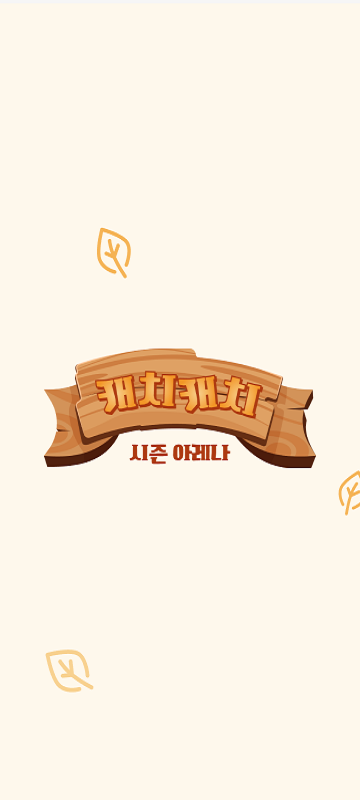
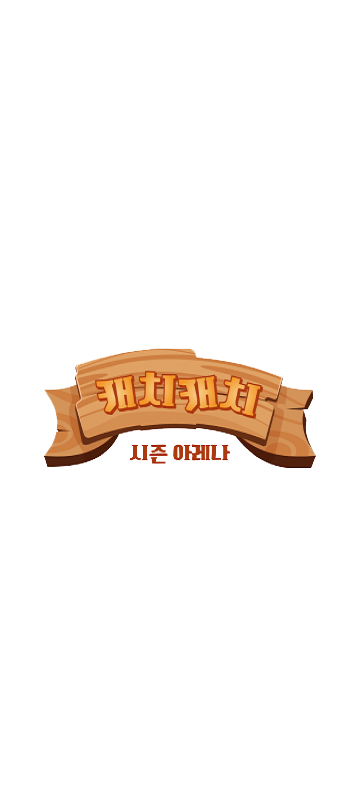
Chore: 로딩 이미지 변경

diff --git a/game/public/index.css b/game/public/index.css
@@ -21,15 +21,21 @@ body {
 
 /* 모달 창 */
 #modal {
+  position: absolute;
+  top: 0;
+  left: 0;
   width: 100%;
   height: 100%;
-  background-color: #fff;
+  display: flex;
+  align-items: center;
+  justify-content: center;
 }
 
 /* 이미지 스타일 */
 #logo {
   width: 100%;
   height: 100%;
+  object-fit: fill;
 }
 
 canvas {
